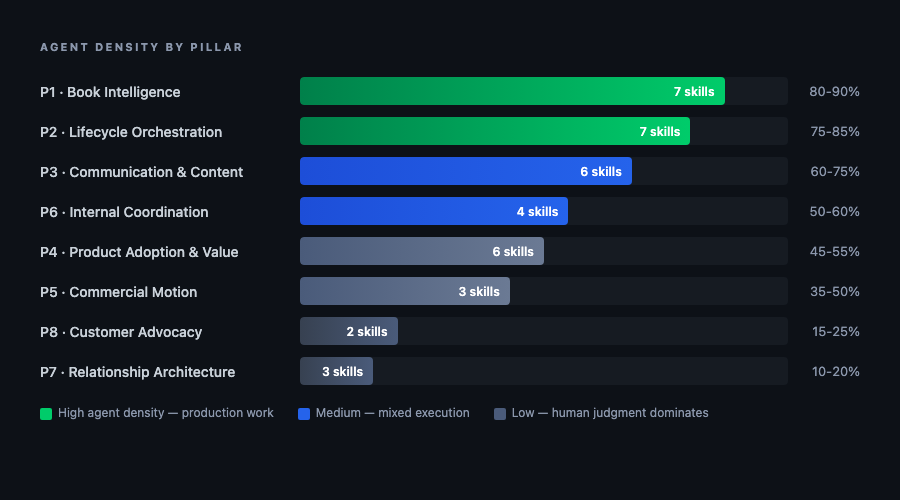
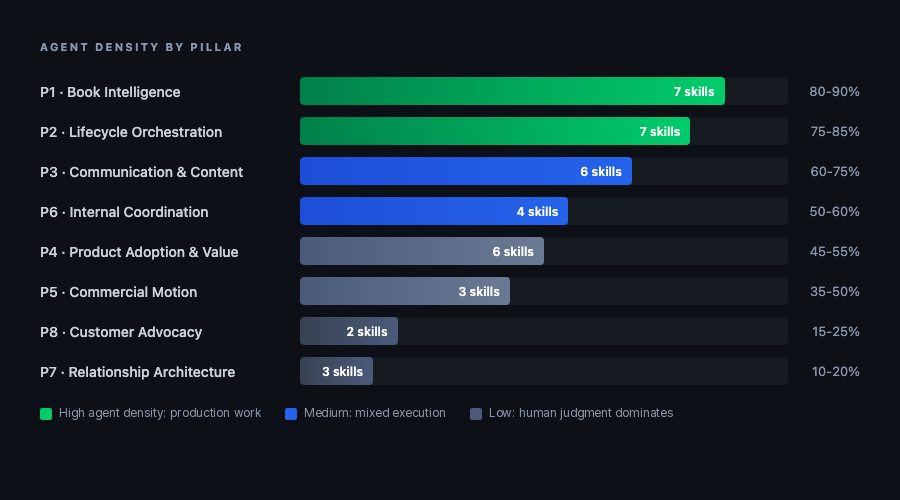
Remove blended 60-70% figure, em dashes in one guide, and em dashes in the agent density chart legend

Changed region(s): [[0.0622, 0.81, 0.7778, 0.84]]

diff --git a/skills/pillar-5-commercial-motion/cm-competitive-response-prep/references/human-decision-guide.md b/skills/pillar-5-commercial-motion/cm-competitive-response-prep/references/human-decision-guide.md
@@ -2,7 +2,7 @@
 
 ## Your Role
 
-The Competitive Response Prep skill assembles the retention case when a competitive threat is detected — value evidence, switching cost analysis, differentiation, and a response framework by evaluation stage and trigger. Your job is to decide how to respond: whether to engage directly, how to frame the conversation, when to involve leadership, and what concessions (if any) are warranted. The agent arms you. You fight the fight.
+The Competitive Response Prep skill assembles the retention case when a competitive threat is detected: value evidence, switching cost analysis, differentiation, and a response framework by evaluation stage and trigger. Your job is to decide how to respond: whether to engage directly, how to frame the conversation, when to involve leadership, and what concessions (if any) are warranted. The agent arms you. You fight the fight.
 
 ## When You Will See This
 
@@ -25,7 +25,7 @@ Not every competitive signal warrants a defensive response. Before engaging:
 
 | Situation | When to Use | Next Step |
 |-----------|-------------|-----------|
-| **Proactive value reinforcement** | Early consideration — customer is just curious, not committed | Do not mention the competitor. Reinforce value delivered and deepen the relationship. Make the competitor's pitch irrelevant |
+| **Proactive value reinforcement** | Early consideration: the customer is just curious, not committed | Do not mention the competitor. Reinforce value delivered and deepen the relationship. Make the competitor's pitch irrelevant |
 | **Root cause conversation** | Active evaluation triggered by a real gap (product, service, price) | Address the underlying issue directly: "Help me understand what prompted this." Solve the problem; do not sell against the competitor |
 | **Direct engagement** | Decision is imminent and the customer is open to a final conversation | Ask for the chance to respond. Be honest about where you are stronger and where the competitor may be better. Credibility matters more than spin |
 | **Escalate to leadership** | Strategic account, C-suite-level evaluation, or executive relationship required | Involve your manager and consider VP-to-VP or CEO engagement. Match the level of the conversation |
@@ -43,4 +43,4 @@ If the competitor is stronger in the area the customer cares about, acknowledge 
 
 ### Service Failure as a Trigger
 
-If the evaluation was triggered by a service failure on your side (poor support, broken feature, missed commitment), the competitor did not win — you lost. Own the failure explicitly. "I understand why you are looking at alternatives after what happened with [issue]" is the right opening. Then show what has changed.
+If the evaluation was triggered by a service failure on your side (poor support, broken feature, missed commitment), the competitor did not win; you lost. Own the failure explicitly. "I understand why you are looking at alternatives after what happened with [issue]" is the right opening. Then show what has changed.

diff --git a/docs/architecture.md b/docs/architecture.md
@@ -74,7 +74,7 @@ Low agent density. Agents track the pipeline, manage logistics, prevent advocate
 
 ## The Blended Picture
 
-Weighting each pillar by typical CSM time allocation, the blended agent-executable percentage across the full role lands at 60-70%.
+The per-pillar ranges above are illustrative starting points, not measurements. How they add up across the full role depends on how your team spends its time, so validate them against your own team's work before planning around any blended figure.
 
 The high-density pillars (Book Intelligence, Lifecycle Orchestration, Communications) carry the volume. The lower-density pillars (Commercial Motion, Relationship Architecture) are where the human earns their seat.
 
